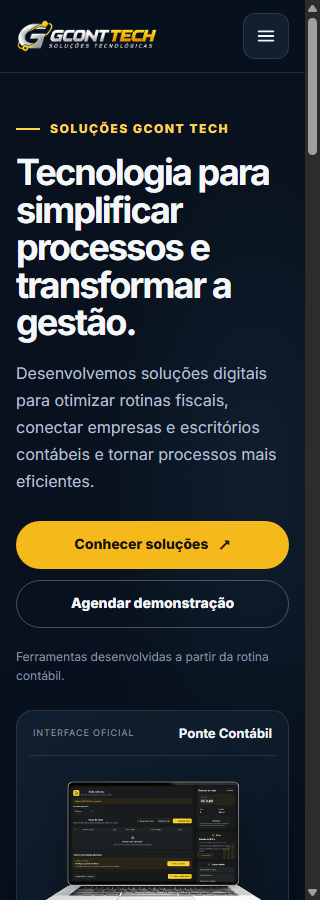
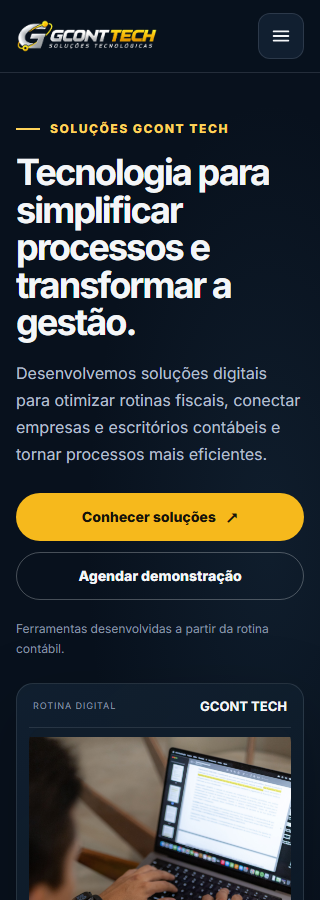
update

Changed region(s): [[0.0312, 0.0, 1.0, 1.0], [0.75, 0.0311, 0.9062, 0.0622], [0.875, 0.6533, 0.9062, 0.6844]]

diff --git a/assets/site.css b/assets/site.css
@@ -594,8 +594,8 @@ button, a { -webkit-tap-highlight-color: transparent; }
 .solutions-image-heading { display: flex; align-items: center; justify-content: space-between; gap: 12px; padding: 0 4px 10px; border-bottom: 1px solid rgba(212, 222, 232, .12); }
 .solutions-image-heading span { color: var(--faint); font-size: 10px; letter-spacing: .1em; text-transform: uppercase; }
 .solutions-image-heading strong { color: var(--text); font-size: 13px; }
-.solutions-image-frame { padding-top: 9px; }
-.solutions-image-frame img { width: 100%; height: auto; object-fit: contain; filter: drop-shadow(0 18px 24px rgba(0, 0, 0, .28)); }
+.solutions-image-frame { height: clamp(360px, 41vw, 460px); padding-top: 9px; overflow: hidden; border-radius: 14px; background: #101d2b; }
+.solutions-image-frame img { width: 100%; height: 100%; object-fit: cover; object-position: center 31%; }
 .solutions-hero-visual figcaption { margin: 2px 4px 0; color: var(--faint); font-size: 11px; text-align: right; }
 
 .solutions-index { padding: 18px 0; border-block: 1px solid rgba(212, 222, 232, .11); background: #0d1928; }
@@ -681,6 +681,7 @@ button, a { -webkit-tap-highlight-color: transparent; }
   .solutions-hero-actions .button, .solution-actions .button, .ponte-editorial-details > .button, .solutions-cta-panel > .button { width: 100%; }
   .solutions-hero-note { font-size: 12px; }
   .solutions-hero-visual { padding: 12px; border-radius: 17px; }
+  .solutions-image-frame { height: clamp(330px, 110vw, 410px); }
   .solutions-image-heading span { font-size: 9px; }
   .solutions-index { padding: 16px 0; }
   .solutions-index-inner { gap: 9px; }

diff --git a/solucoes.html b/solucoes.html
@@ -57,13 +57,13 @@
         </div>
         <figure class="solutions-hero-visual">
           <div class="solutions-image-heading">
-            <span>Interface oficial</span>
-            <strong>Ponte Contábil</strong>
+            <span>Rotina digital</span>
+            <strong>GCONT TECH</strong>
           </div>
           <div class="solutions-image-frame">
-            <img src="/assets/ponte-contabil-emissao-fiscal.png" alt="Interface de emissão fiscal do Ponte Contábil exibida em um notebook" width="872" height="540" fetchpriority="high">
+            <img src="/assets/pexels-ogutomacedo-19879395.jpg" alt="Pessoa usando um notebook para consultar um documento digital" width="4160" height="6240" fetchpriority="high">
           </div>
-          <figcaption>Uma das soluções do ecossistema GCONT TECH.</figcaption>
+          <figcaption>Imagem ilustrativa de uma rotina de trabalho digital.</figcaption>
         </figure>
       </div>
     </section>
@@ -150,6 +150,7 @@
             <li>Acompanhe várias empresas em um único ambiente.</li>
             <li>Organize entradas, saídas e transferências com histórico.</li>
             <li>Consulte resumos e exportações para o fechamento contábil.</li>
+            <li>Emita notas fiscais de forma rápida e fácil.</li>
           </ul>
           <a class="button button-arrow" href="https://pontecontabil.com/landing/" target="_blank" rel="noopener noreferrer" data-track="ponte_landing_click">Conhecer o Ponte Contábil</a>
           <p class="solution-note">Apresentação e jornada comercial no site oficial do produto.</p>

diff --git a/docs/homologacao.md b/docs/homologacao.md
@@ -16,7 +16,7 @@
 - A página fiscal deixa explícito que o sistema não captura XMLs: o escritório obtém os documentos pelos sistemas atuais e disponibiliza os arquivos. Formatos, módulos, integrações, retenção e condições devem ser confirmados em demonstração.
 - GCONT IA é apresentada como integração sujeita a diagnóstico, autorização e escopo. Não promete acesso irrestrito nem alteração autônoma de bases de produção.
 - Ponte Contábil é divulgada como solução GCONT TECH com jornada comercial independente. A landing oficial é `https://pontecontabil.com/landing/`; o site institucional direciona para ela e não oferece preço, plano ou checkout próprio.
-- A landing oficial apresenta boletim de caixa, rotinas financeiras e fiscais, estoque, histórico, resumos e exportações para escritório e clientes. A vitrine usa somente essas informações públicas e a imagem oficial `/assets/ponte-contabil-emissao-fiscal.png`.
+- A landing oficial apresenta boletim de caixa, rotinas financeiras e fiscais, estoque, histórico, resumos e exportações para escritório e clientes. A página Soluções usa uma foto ilustrativa de rotina digital, sem apresentá-la como captura da interface do Ponte Contábil.
 - A demonstração interativa da landing oficial é identificada como visual inspirado no app e usa dados fictícios; não reutilizar essa demonstração como captura real. O rascunho interno `ponte-contabil-preview.html` continua fora do diretório público da imagem Docker.
 - A área de conteúdo não foi criada: não há calendário, publicações ou estrutura editorial no repositório.
 - Os documentos `GERALDO.docx` e `GERALDO CONFIS.docx` citados no prompt não estão presentes no repositório nem entre os arquivos desta tarefa. A documentação comercial e técnica precisa ser conferida antes de ampliar afirmações de produto.
